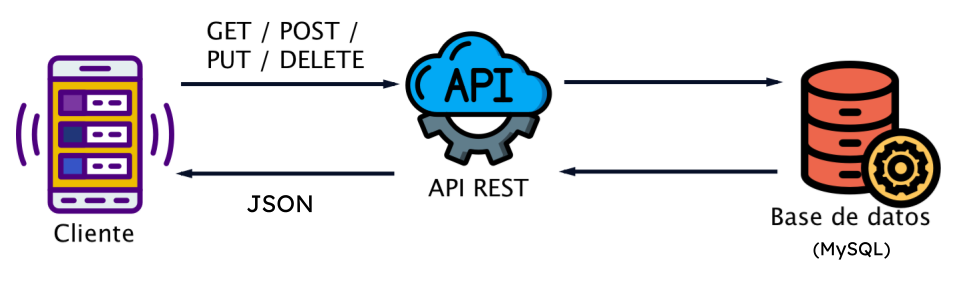
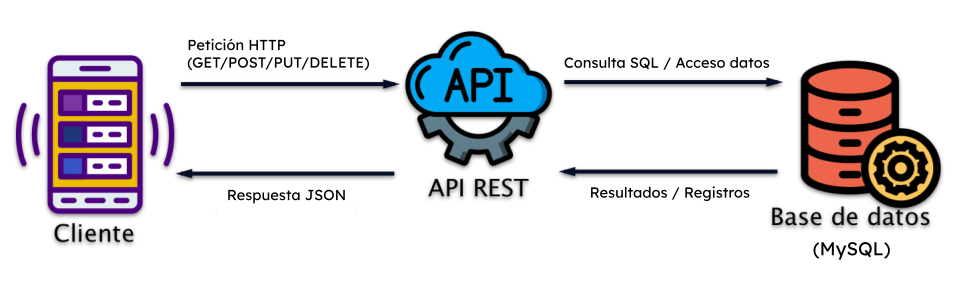
Update README.md

diff --git a/README.md b/README.md
@@ -5,7 +5,10 @@
 - [API REST Base en PHP + MySQL](#api-rest-base-en-php--mysql)
   - [Contenidos](#contenidos)
   - [Contexto](#contexto)
+  - [Objetivos de aprendizaje](#objetivos-de-aprendizaje)
   - [¿Qué es una API REST?](#qué-es-una-api-rest)
+    - [CRUD del recurso `products`](#crud-del-recurso-products)
+    - [Esquema general del funcionamiento de la API REST](#esquema-general-del-funcionamiento-de-la-api-rest)
   - [¿Para qué se usa una API REST?](#para-qué-se-usa-una-api-rest)
   - [Estructura del proyecto](#estructura-del-proyecto)
   - [Requisitos previos](#requisitos-previos)
@@ -29,19 +32,39 @@
 
 Este repositorio se utiliza como soporte para una actividad práctica del módulo M0613 de DAW2. Permite trabajar de forma progresiva conceptos clave del desarrollo web en entorno servidor y sirve como punto de partida para aprender cómo se estructura, desarrolla y documenta una API REST mediante un proyecto base en PHP. A partir de este recurso podrás completar operaciones CRUD, probar endpoints con Postman y generar documentación técnica con apidoc siguiendo buenas prácticas profesionales.
 
+## Objetivos de aprendizaje
+Con este recurso podrás:
+- Comprender el funcionamiento básico de una API REST.
+- Implementar operaciones CRUD sobre el recurso `products`.
+- Probar y depurar endpoints utilizando Postman.
+- Generar documentación técnica con apidoc.
+- Organizar tu trabajo siguiendo buenas prácticas de desarrollo backend.
+
 ## ¿Qué es una API REST?
 Una **API REST** (Representational State Transfer) es una interfaz que permite que dos aplicaciones se comuniquen a través de Internet utilizando peticiones HTTP estándar.
 
 En lugar de enviar páginas web completas, una API REST expone **recursos** mediante **endpoints**:
 
-| Método HTTP | Uso típico |
-|-------------|-----------|
-| **GET**     | Lectura de recursos |
-| **POST**    | Creación de recursos |
-| **PUT**     | Actualizar datos |
+| Método HTTP | Uso típico              |
+|-------------|-------------------------|
+| **GET**     | Lectura de recursos     |
+| **POST**    | Creación de recursos    |
+| **PUT**     | Actualizar datos        |
 | **DELETE**  | Eliminación de recursos |
 
 Las respuestas suelen enviarse en **JSON**.
+
+### CRUD del recurso `products`
+
+| Método    | Endpoint               | Acción                          |
+|-----------|------------------------|---------------------------------|
+| **GET**   | `/products`            | Listar todos los productos      |
+| **GET**   | `/products?id=:id`     | Obtener un producto concreto    |
+| **POST**  | `/products`            | Crear un nuevo producto         |
+| **PUT**   | `/products?id=:id`     | Actualizar un producto existente|
+| **DELETE**| `/products?id=:id`     | Eliminar un producto            |
+
+### Esquema general del funcionamiento de la API REST
 
 ![Lógica del servidor (PHP + MySQL)](/assets/images/API-REST-Esquema.png "Lógica de servidor")
 
